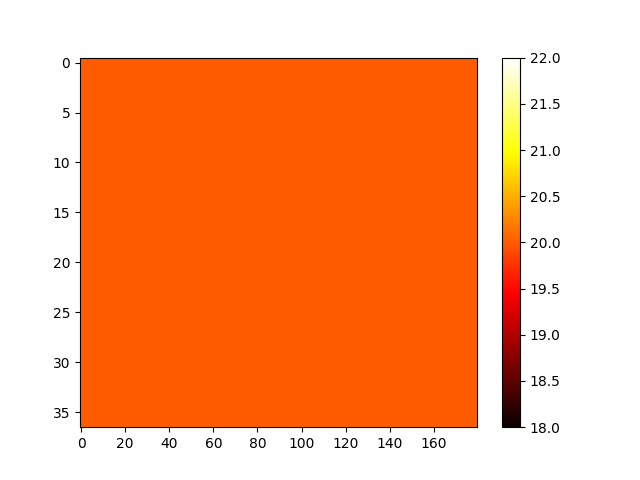
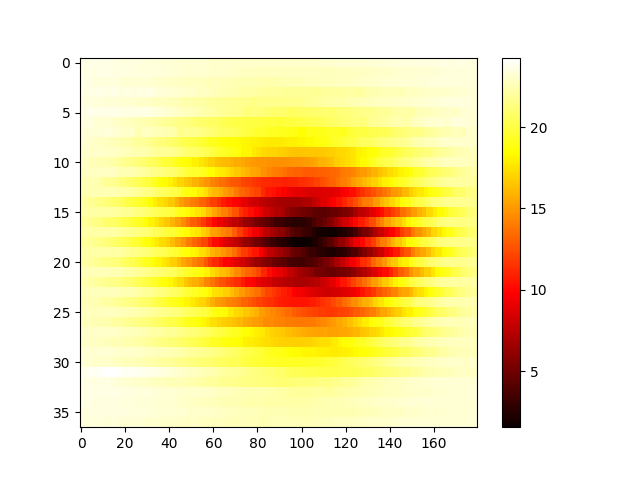
Final commit

diff --git a/servidor/static/js/index.js b/servidor/static/js/index.js
@@ -2,6 +2,7 @@ $(document).ready(function(){
 
   var cron;
   var showP;
+  var showImage;
   var sv_min = 0;
   var sv_hor = 0;
   var sv_seg = 0;
@@ -63,8 +64,29 @@ $(document).ready(function(){
     showP = setInterval(function()
     {
       $.get("/getPorcentaje", function(data){
-        porc.innerHTML = Math.round(data['porcentaje'])+"%"
-        //console.log(data['porcentaje']);
+        if(data['porcentaje'] != -1)
+        {
+          porc.innerHTML = Math.round(data['porcentaje'])+"%"
+          console.log(data['porcentaje']);
+        }
+        else
+        {
+          console.log(data['porcentaje']);
+          sv_min = 0;
+          sv_hor = 0;
+          sv_seg = 0;
+      
+          porc.innerHTML = "0%";
+          seg.innerHTML = "00";
+          min.innerHTML = "00";
+          hor.innerHTML = "00";
+      
+          iniciado = false;
+          clearInterval(cron);
+          clearInterval(showP);
+          imagen.src = "../static/images/imagen.png";
+          container.style.visibility = "visible";      
+        }
       });
     }, 1000);
   }
@@ -113,8 +135,17 @@ $(document).ready(function(){
     iniciado = false;
     clearInterval(cron);
     clearInterval(showP);
-    imagen.src = "../static/images/imagen.png";
-    container.style.visibility = "visible";
-  }
 
+    var cont = 0;
+    showImage = setInterval(function()
+    {
+      if(cont == 1)
+      {
+        imagen.src = "../static/images/imagen.png";
+        container.style.visibility = "visible";
+        clearInterval(showImage);
+      }
+      cont++;
+    }, 1000);
+  }
 });

diff --git a/servidor/lector.py b/servidor/lector.py
@@ -2,13 +2,16 @@ import serial
 import numpy as np
 import creador
 
-ser = serial.Serial('/dev/ttyUSB1')
+ser = serial.Serial('/dev/ttyUSB0')
 
 leidos = 0
+termino = 0
 
 def leer():
     global leidos
+    global termino
 
+    termino = 0
     matriz = np.full((37,180), 20.00)
     fila = 36
     columna = 179
@@ -53,14 +56,8 @@ def leer():
     
     print("Se va a crear la imagen")
     creador.crear_imagen(matriz)
-    #imprimirMatriz(matriz)
     leidos = 0
-
-def imprimirMatriz(matriz):
-    for y in range(32,36):
-        for x in range(0,179):
-            print(matriz[y][x]),
-        print('')
+    termino = 1
 
 def obtenerMatriz():
     return matriz
@@ -70,5 +67,10 @@ def enviar(comando):
 
 def getPorcentaje():
     global leidos
-    porc = ( leidos / (37.00 * 180.00)) * 100.00
-    return porc
+    global termino
+    porc = (leidos / (37.00 * 180.00)) * 100.00
+    if(termino == 1):
+        termino = 0
+        return -1
+    else:
+        return porc

diff --git a/servidor/__init__.py b/servidor/__init__.py
@@ -41,7 +41,6 @@ def getPorcentaje():
     porc = lector.getPorcentaje()
     return jsonify({"porcentaje": porc})
 
-
 @app.route('/quien-soy')
 def quienSoy():
     return render_template('quien-soy.html')
